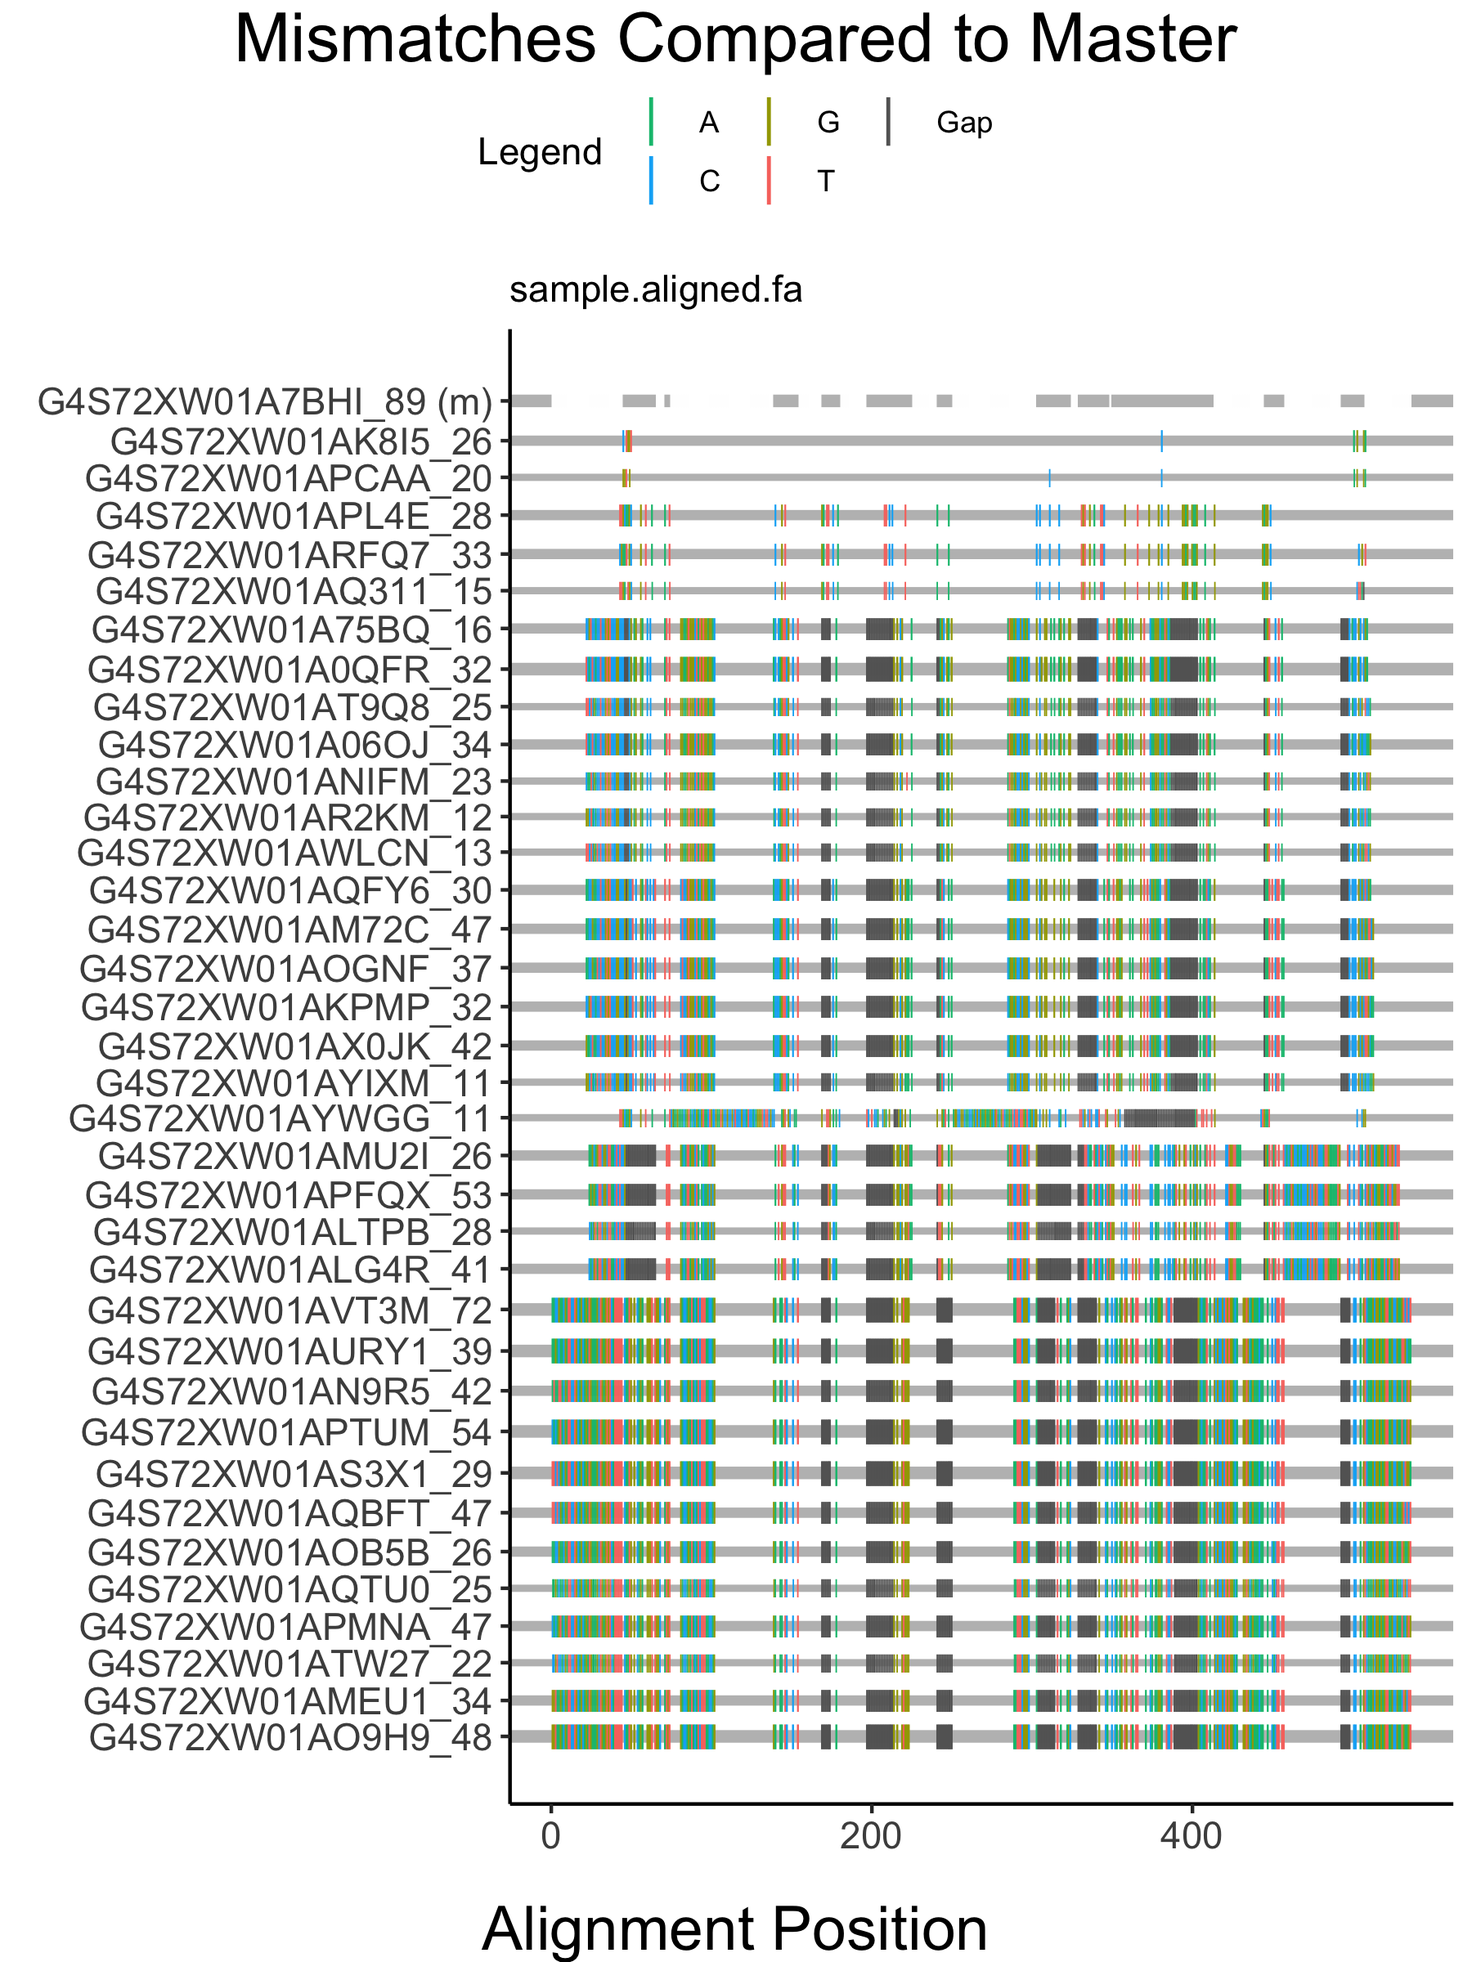
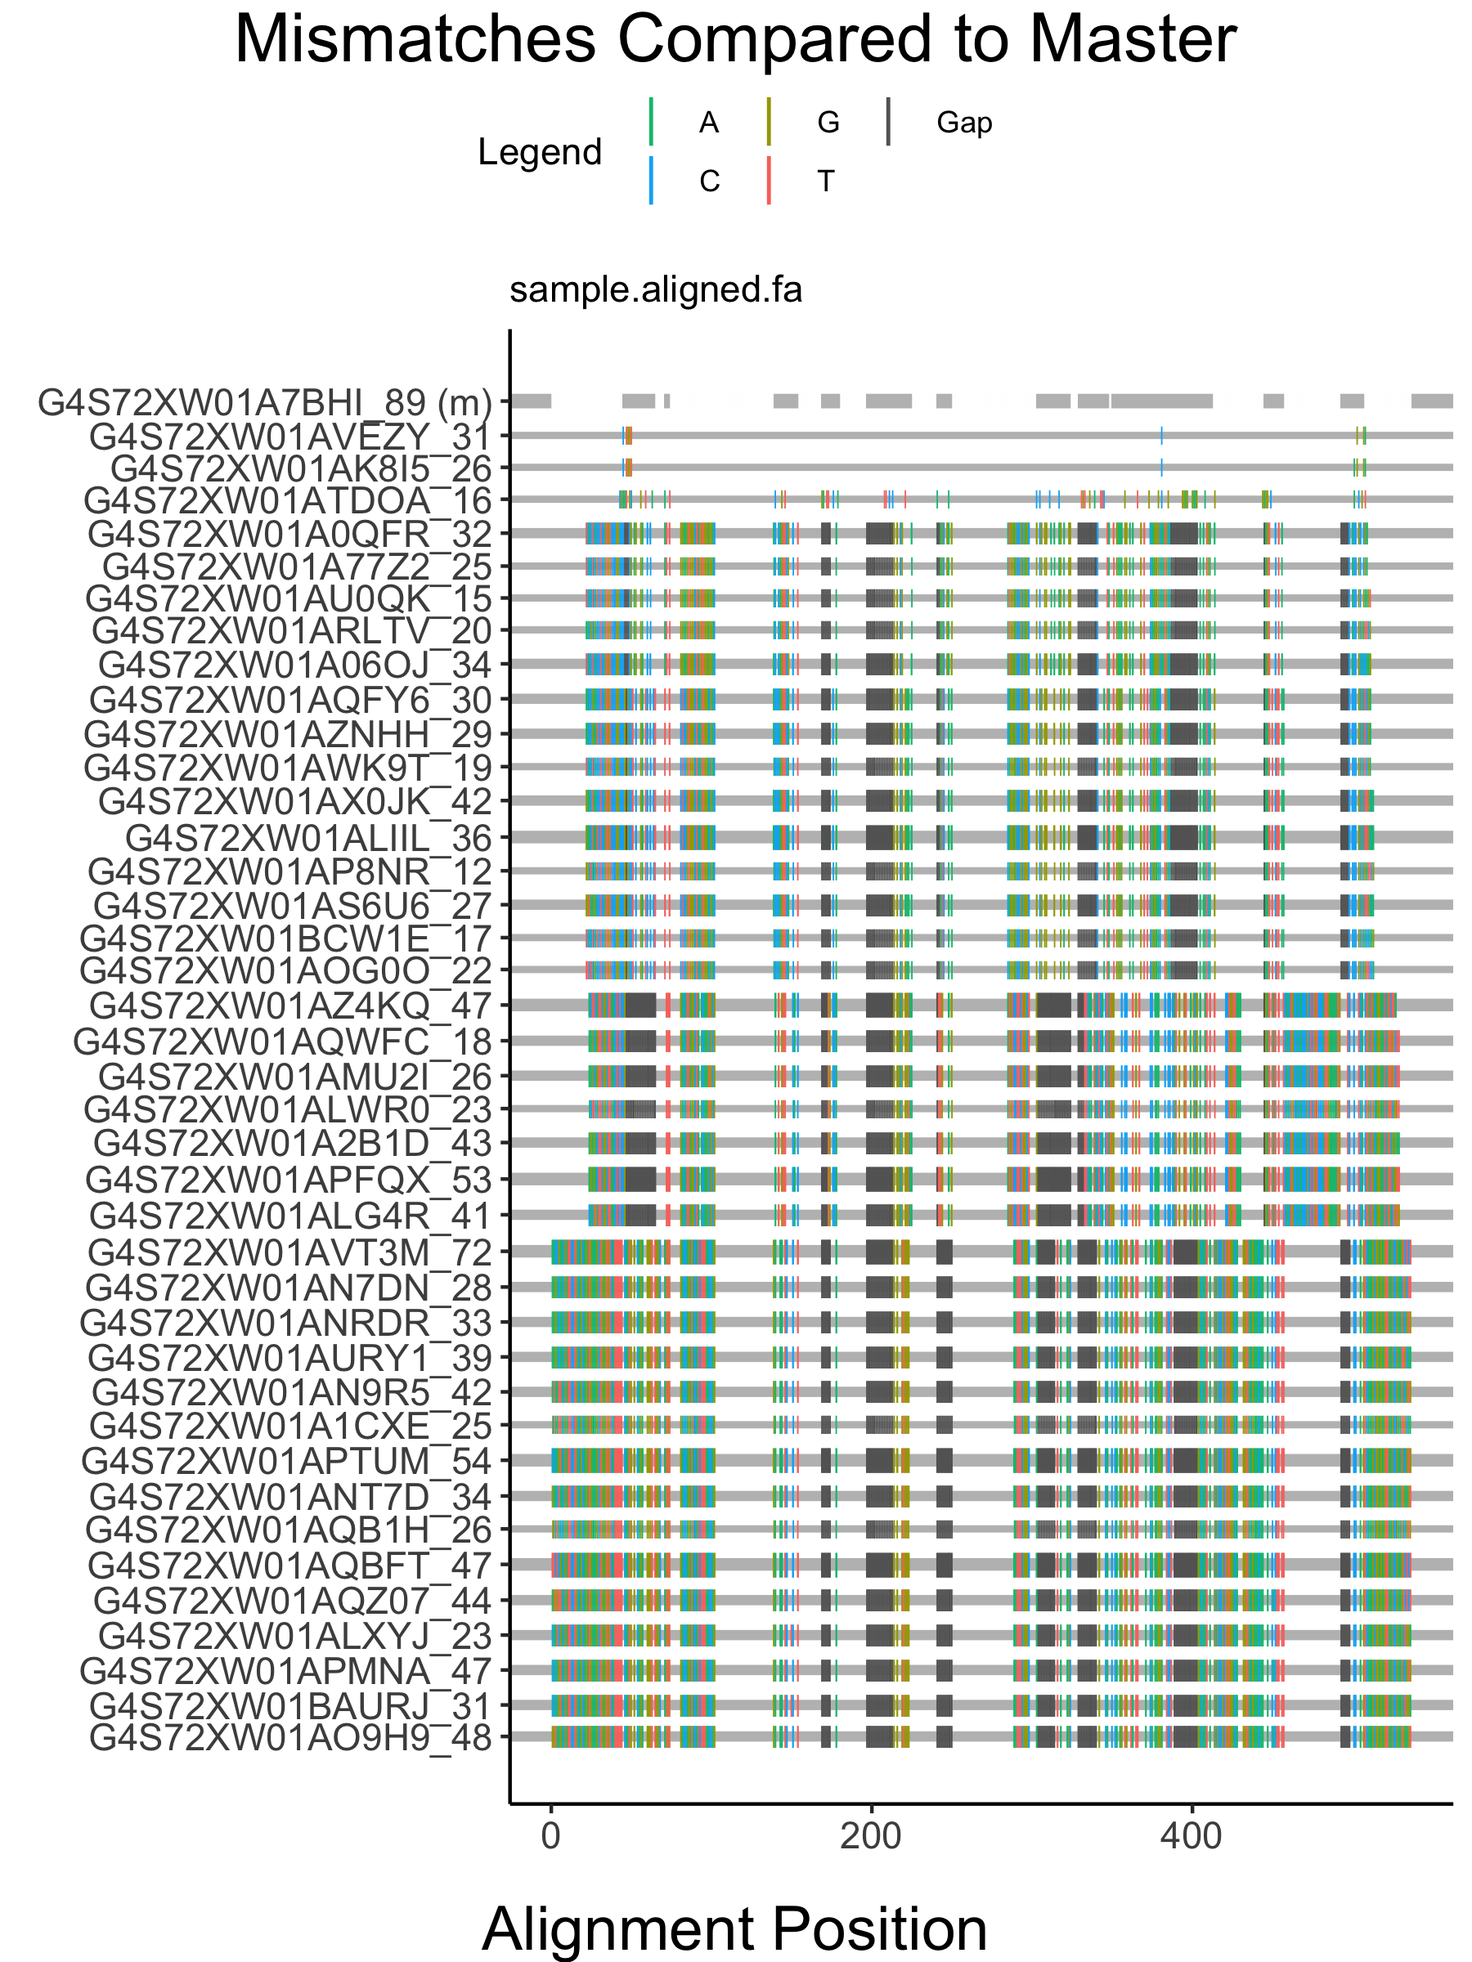
updated README

diff --git a/README.md b/README.md
@@ -40,14 +40,13 @@ For example, let's import a FASTA file to analyze using highlineR. (Data adapted
 
 ``` r
 library(highlineR)
-init_session()
-#> <environment: 0x7f9b01376428>
-#> attr(,"class")
-#> [1] "session"     "environment"
+highlineR.session <- init_session() # create session
+base <- system.file('extdata', package = "highlineR")
+fn <- paste0(base, "/sample.aligned.fa")
 
 # Default import
-import_raw_seq("data/sample.aligned.fa")
-#> <environment: 0x7f9b01376428>
+import_raw_seq(fn)
+#> <environment: 0x7fcb4aca9b70>
 #> attr(,"class")
 #> [1] "session"     "environment"
 ```
@@ -56,25 +55,25 @@ highlineR recognizes standard file extensions (.fasta, .fa, .fas, .fastq, .fq). 
 
 ``` r
 # Import NGS files with non-standard file extensions
-import_raw_seq("data/sample.txt", datatype = "fasta")
+import_raw_seq("/sample.txt", datatype = "fasta")
 ```
 
 The file we are using contains nucleotide sequences. If the file of interest contains amino acid sequences instead then run:
 
 ``` r
 # Import amino acid data
-import_raw_seq("data/sample.aligned.fa", seqtype = "amino acid")
+import_raw_seq("/sample.aligned.fa", seqtype = "amino acid")
 ```
 
 The `import_raw_seq()` function creates an S3 object called a `Data` object with the following structure:
 
 ``` r
 # Classes of Data objects
-str(highlineR.session$`data/sample.aligned.fa`)
-#> Classes 'fasta', 'nucleotide', 'Data', 'environment' <environment: 0x7f9b013fcb30>
+str(highlineR.session[[fn]])
+#> Classes 'fasta', 'nucleotide', 'Data', 'environment' <environment: 0x7fcb4d336bf0>
 
 # Attributes of Data objects
-ls(highlineR.session$`data/sample.aligned.fa`)
+ls(highlineR.session[[fn]])
 #> [1] "compressed" "master"     "path"       "raw_seq"    "sample"    
 #> [6] "seq_diff"
 ```
@@ -97,11 +96,19 @@ This means that the classes of a `Data` object provide information about the dat
 
 The `import_raw_seq()` function also creates another S3 object called a `session` object that acts as a parent container to hold multiple `Data` objects for later plotting. This functionality allows multiple NGS files to be added to a single `session` by unique function calls for later batch processing.
 
-By default, `Data` objects are added to a `highlineR.session` object. To change the `session` to which imported `Data` objects are added, use the session flag:
+In the above example, we first created an empty `session` using the `init_session()` function. This function returns the created `session` object which must be stored by the user for further use. In the above example, the `session` was named `highlineR.session`. This is the default name expected by the program. Following this, if the session argument is not provided, `Data` objects are added to the `highlineR.session` object by default.
+
+To override this default behaviour, the `session` created using `init_session()` can be stored using a different variable name `Data` objects can be imported into that `session`, using the session argument. Alternatively, the result returned by the `import_raw_seq()` function can be stored without a direct call to `init_session()`:
 
 ``` r
-# Import into custom session
-import_raw_seq("data/sample.aligned.fa", session = "my_session")
+# Import into initialized session
+my_session <- init_session()
+import_raw_seq(fn, session = "my_session")
+
+# Import into uninitialized session
+my_session <- import_raw_seq(fn) # To create session using only one import call, the session argument is not needed
+# To add more Data objects to the custom session, you must specify the session argument
+import_raw_seq(paste0(base, "/sample.fa"), session = my_session)
 ```
 
 Parsing
@@ -121,7 +128,7 @@ The `parse_raw_seq()` function stream reads NGS files and populates the `raw_seq
 
 ``` r
 # Strucure of the parsed file
-head(highlineR.session$`data/sample.aligned.fa`$raw_seq, n=3)
+head(highlineR.session[[fn]]$raw_seq, n=3)
 #> [[1]]
 #> [[1]]$header
 #> [1] "G4S72XW01A7BHI_89"
@@ -162,12 +169,12 @@ The `compress()` function populates the `compressed` environments of `Data` obje
 
 ``` r
 # Number of unique sequences in compressed structure
-c_len <- length(highlineR.session$`data/sample.aligned.fa`$compressed)
+c_len <- length(highlineR.session[[fn]]$compressed)
 c_len
 #> [1] 343
 
 # Most abundant sequences in compressed structure
-sort(highlineR.session$`data/sample.aligned.fa`$compressed)[c_len:(c_len-2), , drop = F]
+sort(highlineR.session[[fn]]$compressed)[c_len:(c_len-2), , drop = F]
 #>                                                                                                                                                                                                                                                                                                                                                                                                                                                                                                                                                          freq
 #> --------------------------------------------TTGCAAGCAGGTTGCTCAGGC-----CCAC----------------------------------------------------------------TTGGTCACTCTGTGCA--------------TTGCCCTTGGCA----------------ATCCGTGTGTTCCGTTTCCAATACCCCGG---------------CCCCTCCTGC----------------------------------------------------TCTATCCATGGCGCTCGCGGCT----CCATCCTCGGCTTCGGGGCG-TCGCTGTCAAAGCGCACGAACTGCGTGTCCTTCACATAGCCCACTTCCATATGCCGGGGCTCCC-------------------------------CTCCGGGGCCGGG-----------------------------------ACACGGAGGTTAGTT-----------------------------   89
 #> AACCGAACGATTCCTGCAGCAGATGAAAGCTGAGTGTCATTTTTTCAATGGGACAGAGCGGGTGTGGC--ATGT------GACCAGATACATCTTTAACCAG------------------------------------GAGGAAATCCTGCGCT--------------------TTGACA---------------------------------GCGATGTGGGGG---------------------------------------------------------------AATTTCGGGC----A-----------GTTAGCGAGC----------------TGGGGCAG-CCCATAGCTGAGTACTTGAACAGCCAGAAGGACATCCTG---------------GACAATTACCGCGCCGCTGTGGACA---GGTGCAGAAACAACTACGCGCTTGTT-----------------------------------------AGCCTAATGTCAAAGCGGAGAGTTAAGCCGAAGTCTCT   72
@@ -180,41 +187,41 @@ The `N` and `M` arguments to the `compress()` function are used to determine the
 
 In an NGS experiment, if the number of input sequences is much greater than the number of templates (nucleic acids) available during the sequencing reaction, then the frequency distribution of variants produced may be skewed. In an attempt to accommodate for this phenomenon, highlineR utilizes a read\_sample() function which randomly samples N reads with replacement, M times. The average of the resulting frequencies of variants present in at least 85% of the replicates is then used as the expected variant frequencies.
 
-Sampling is performed automatically during compression. A dataset can be resampled without re-comressing using the `resample()` function.
+Sampling is performed automatically during compression. A dataset can be resampled without re-compressing using the `resample()` function.
 
 ``` r
 # Sample created during compression
 # Number of sequences in sample environment
-s_len <- length(highlineR.session$`data/sample.aligned.fa`$sample)
+s_len <- length(highlineR.session[[fn]]$sample)
 s_len
-#> [1] 162
+#> [1] 181
 
 # Most abundance sequences in sample environment
-sort(highlineR.session$`data/sample.aligned.fa`$sample)[s_len:(s_len-2), , drop = F]
+sort(highlineR.session[[fn]]$sample)[s_len:(s_len-2), , drop = F]
 #>                                                                                                                                                                                                                                                                                                                                                                                                                                                                                                                                                          freq
-#> --------------------------------------------TTGCAAGCAGGTTGCTCAGGC-----CCAC----------------------------------------------------------------TTGGTCACTCTGTGCA--------------TTGCCCTTGGCA----------------ATCCGTGTGTTCCGTTTCCAATACCCCGG---------------CCCCTCCTGC----------------------------------------------------TCTATCCATGGCGCTCGCGGCT----CCATCCTCGGCTTCGGGGCG-TCGCTGTCAAAGCGCACGAACTGCGTGTCCTTCACATAGCCCACTTCCATATGCCGGGGCTCCC-------------------------------CTCCGGGGCCGGG-----------------------------------ACACGGAGGTTAGTT-----------------------------    8
-#> AACCGAACGATTCCTGCAGCAGATGAAAGCTGAGTGTCATTTTTTCAATGGGACAGAGCGGGTGTGGC--ATGT------GACCAGATACATCTTTAACCAG------------------------------------GAGGAAATCCTGCGCT--------------------TTGACA---------------------------------GCGATGTGGGGG---------------------------------------------------------------AATTTCGGGC----A-----------GTTAGCGAGC----------------TGGGGCAG-CCCATAGCTGAGTACTTGAACAGCCAGAAGGACATCCTG---------------GACAATTACCGCGCCGCTGTGGACA---GGTGCAGAAACAACTACGCGCTTGTT-----------------------------------------AGCCTAATGTCAAAGCGGAGAGTTAAGCCGAAGTCTCT    5
-#> -----------------------TTGCAATTCGGCTTAACTCTCCG------------------------CTTT------GACATTAGGCTA-ACAAGCGCG------------------------------------TAGTTGTTTCTGCACC------------------TGTCCACA---------------------------------GCGGCGCGGTAA----------------TTGTCCAGG----------------------------------ATGTCCTTCTGGCT----G-----------------------------TTCAAGTACTCAGCTATGGGCTGCCCCAGCTCGCTAACTGCCCGAAATTCCCCCACATCGCTGTCAAAGCGCAGGATTTCCT------CCTGGTTAAA---------------GATGTATCTGGTCACATGCCACACCCGCTCTGTCCCATTGAAAAATGACACTCAGCTTTCATCTGCTGCAGGAATCGTTGTCTT-------    5
+#> AACCGAACGATTCCTGCAGCAGATGAAAGCTGAGTGTCATTTTTTCAATGGGACAGAGCGGGTGTGGC--ATGT------GACCAGATACATCTTTAACCAG------------------------------------GAGGAAATCCTGCGCT--------------------TTGACA---------------------------------GCGATGTGGGGG---------------------------------------------------------------AATTTCGGGC----A-----------GTTAGCGAGC----------------TGGGGCAG-CCCATAGCTGAGTACTTGAACAGCCAGAAGGACATCCTG---------------GACAATTACCGCGCCGCTGTGGACA---GGTGCAGAAACAACTACGCGCTTGTT-----------------------------------------AGCCTAATGTCAAAGCGGAGAGTTAAGCCGAAGTCTCT    7
+#> --------------------------------------------TTGCAAGCAGGTTGCTCAGGC-----CCAC----------------------------------------------------------------TTGGTCACTCTGTGCA--------------TTGCCCTTGGCA----------------ATCCGTGTGTTCCGTTTCCAATACCCCGG---------------CCCCTCCTGC----------------------------------------------------TCTATCCATGGCGCTCGCGGCT----CCATCCTCGGCTTCGGGGCG-TCGCTGTCAAAGCGCACGAACTGCGTGTCCTTCACATAGCCCACTTCCATATGCCGGGGCTCCC-------------------------------CTCCGGGGCCGGG-----------------------------------ACACGGAGGTTAGTT-----------------------------    7
+#> TTCTCGACGATTCCTGCAGCAGATGAAAGCTGAGTGTCATTTTTTCAATGGGACAGAGCGGGTGTGGC--ATGT------GACCAGATACATCTTTAACCAG------------------------------------GAGGAAATCCTGCGCT--------------------TTGACA---------------------------------GCGATGTGGGGG---------------------------------------------------------------AATTTCGGGC----A-----------GTTAGCGAGC----------------TGGGGCAG-CCCATAGCTGAGTACTTGAACAGCCAGAAGGACATCCTG---------------GACAATTACCGCGCCGCTGTGGACA---GGTGCAGAAACAACTACGCGCTTGTT-----------------------------------------AGCCTAATGTCAAAGCGGAGAGTTAAGCCGAAGTCTCT    5
 
 # Resampling
-resample(highlineR.session$`data/sample.aligned.fa`, 
+resample(highlineR.session[[fn]], 
          N = c_len * 0.75,
          M = 10)
-#> <environment: 0x7f9b013faa50>
+#> <environment: 0x7fcb4d331ab0>
 #> attr(,"class")
 #> [1] "compressed"  "environment"
 
 # New number of sequences in sample environment
-new_s_len <- length(highlineR.session$`data/sample.aligned.fa`$sample)
+new_s_len <- length(highlineR.session[[fn]]$sample)
 new_s_len
-#> [1] 36
+#> [1] 40
 
 # Most abundance sequences in new sample environment
-sort(highlineR.session$`data/sample.aligned.fa`$sample)[new_s_len:(new_s_len-2), , drop = F]
+sort(highlineR.session[[fn]]$sample)[new_s_len:(new_s_len-2), , drop = F]
 #>                                                                                                                                                                                                                                                                                                                                                                                                                                                                                                                                                          freq
+#> --------------------------------------------TTGCAAGCAGGTTGCTCAGGC-----CCAC----------------------------------------------------------------TTGGTCACTCTGTGCA--------------TTGCCCTTGGCA----------------ATCCGTGTGTTCCGTTTCCAATACCCCGG---------------CCCCTCCTGC----------------------------------------------------TCTATCCATGGCGCTCGCGGCT----CCATCCTCGGCTTCGGGGCG-TCGCTGTCAAAGCGCACGAACTGCGTGTCCTTCACATAGCCCACTTCCATATGCCGGGGCTCCC-------------------------------CTCCGGGGCCGGG-----------------------------------ACACGGAGGTTAGTT-----------------------------    4
+#> TTCTCGACGATTCCTGCAGCAGATGAAAGCTGAGTGTCATTTTTTCAATGGGACAGAGCGGGTGTGGC--ATGT------GACCAGATACATCTTTAACCAG------------------------------------GAGGAAATCCTGCGCT--------------------TTGACA---------------------------------GCGATGTGGGGG---------------------------------------------------------------AATTTCGGGC----A-----------GTTAGCGAGC----------------TGGGGCAG-CCCATAGCTGAGTACTTGAACAGCCAGAAGGACATCCTG---------------GACAATTACCGCGCCGCTGTGGACA---GGTGCAGAAACAACTACGCGCTTGTT-----------------------------------------AGCCTAATGTCAAAGCGGAGAGTTAAGCCGAAGTCTCT    3
 #> CACAGTACGATTCCTGCAGCAGATGAAAGCTGAGTGTCATTTTTTCAATGGGACAGAGCGGGTGTGGC--ATGT------GACCAGATACATCTTTAACCAG------------------------------------GAGGAAATCCTGCGCT--------------------TTGACA---------------------------------GCGATGTGGGGG---------------------------------------------------------------AATTTCGGGC----A-----------GTTAGCGAGC----------------TGGGGCAG-CCCATAGCTGAGTACTTGAACAGCCAGAAGGACATCCTG---------------GACAATTACCGCGCCGCTGTGGACA---GGTGCAGAAACAACTACGCGCTTGTT-----------------------------------------AGCCTAATGTCAAAGCGGAGAGTTAAGCCGAATACGTG    3
-#> AACCGAACGATTCCTGCAGCAGATGAAAGCTGAGTGTCATTTTTTCAATGGGACAGAGCGGGTGTGGC--ATGT------GACCAGATACATCTTTAACCAG------------------------------------GAGGAAATCCTGCGCT--------------------TTGACA---------------------------------GCGATGTGGGGG---------------------------------------------------------------AATTTCGGGC----A-----------GTTAGCGAGC----------------TGGGGCAG-CCCATAGCTGAGTACTTGAACAGCCAGAAGGACATCCTG---------------GACAATTACCGCGCCGCTGTGGACA---GGTGCAGAAACAACTACGCGCTTGTT-----------------------------------------AGCCTAATGTCAAAGCGGAGAGTTAAGCCGAAGTCTCT    3
-#> --------------------------------------------TTGCAAGCAGGTTGCTCAGGC-----CCAC----------------------------------------------------------------TTGGTCACTCTGTGCA--------------TTGCCCTTGGCA----------------ATCCGTGTGTTCCGTTTCCAATACCCCGG---------------CCCCTCCTGC----------------------------------------------------TCTATCCATGGCGCTCGCGGCT----CCATCCTCGGCTTCGGGGCG-TCGCTGTCAAAGCGCACGAACTGCGTGTCCTTCACATAGCCCACTTCCATATGCCGGGGCTCCC-------------------------------CTCCGGGGCCGGG-----------------------------------ACACGGAGGTTAGTT-----------------------------    3
 ```
 
 Plotting
@@ -234,7 +241,7 @@ Using the default parameters, the most abundant sequence is selected as the mast
 ``` r
 # Plot session with variants sorted by similarity to master
 plot(highlineR.session)
-#> [1] "Plotting: data/sample.aligned.fa"
+#> [1] "Plotting: /Library/Frameworks/R.framework/Versions/3.5/Resources/library/highlineR/extdata/sample.aligned.fa"
 #> [1] ".... Initializing Plot"
 #> [1] "........ Parameters:"
 #> [1] "............ Mode: mismatch"
@@ -256,7 +263,7 @@ Variants can also be sorted by frequency rather than similarity:
 ``` r
 # Plot session with variants sorted by relative abundance
 plot(highlineR.session, sort_by = "frequency")
-#> [1] "Plotting: data/sample.aligned.fa"
+#> [1] "Plotting: /Library/Frameworks/R.framework/Versions/3.5/Resources/library/highlineR/extdata/sample.aligned.fa"
 #> [1] ".... Initializing Plot"
 #> [1] "........ Parameters:"
 #> [1] "............ Mode: mismatch"
@@ -278,7 +285,7 @@ Finally, rather than simply plotting mismatches, mutations can be annotated as s
 ``` r
 # Plot synonymous and non-synonymous mutations
 plot(highlineR.session, mode = "svn")
-#> [1] "Plotting: data/sample.aligned.fa"
+#> [1] "Plotting: /Library/Frameworks/R.framework/Versions/3.5/Resources/library/highlineR/extdata/sample.aligned.fa"
 #> [1] ".... Initializing Plot"
 #> [1] "........ Parameters:"
 #> [1] "............ Mode: svn"
@@ -300,7 +307,7 @@ plot(highlineR.session, mode = "svn")
 
 # Plot transitions and transversions
 plot(highlineR.session, mode = "tvt")
-#> [1] "Plotting: data/sample.aligned.fa"
+#> [1] "Plotting: /Library/Frameworks/R.framework/Versions/3.5/Resources/library/highlineR/extdata/sample.aligned.fa"
 #> [1] ".... Initializing Plot"
 #> [1] "........ Parameters:"
 #> [1] "............ Mode: tvt"
